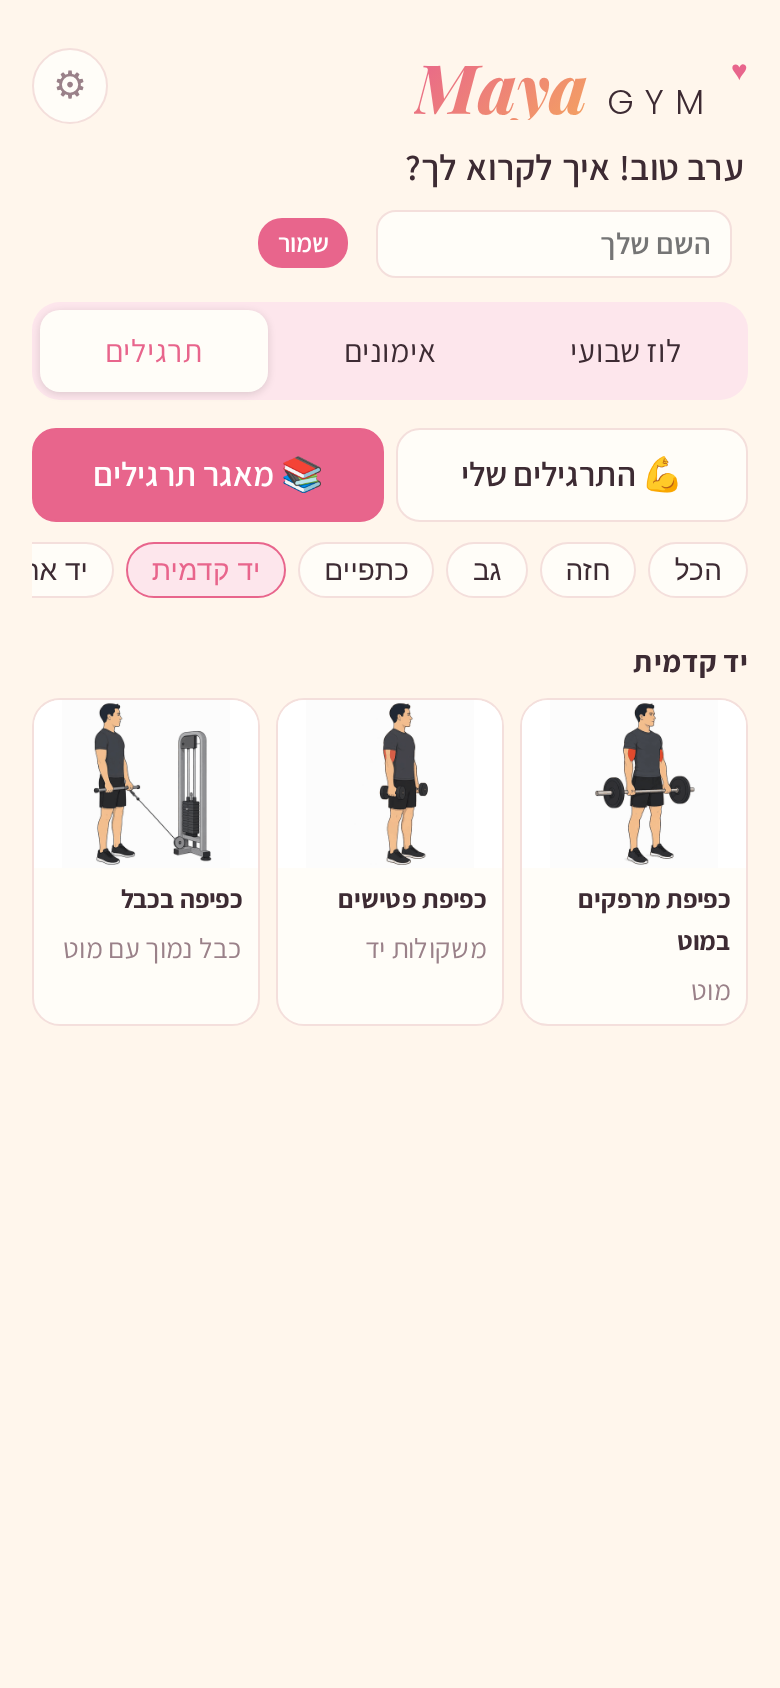
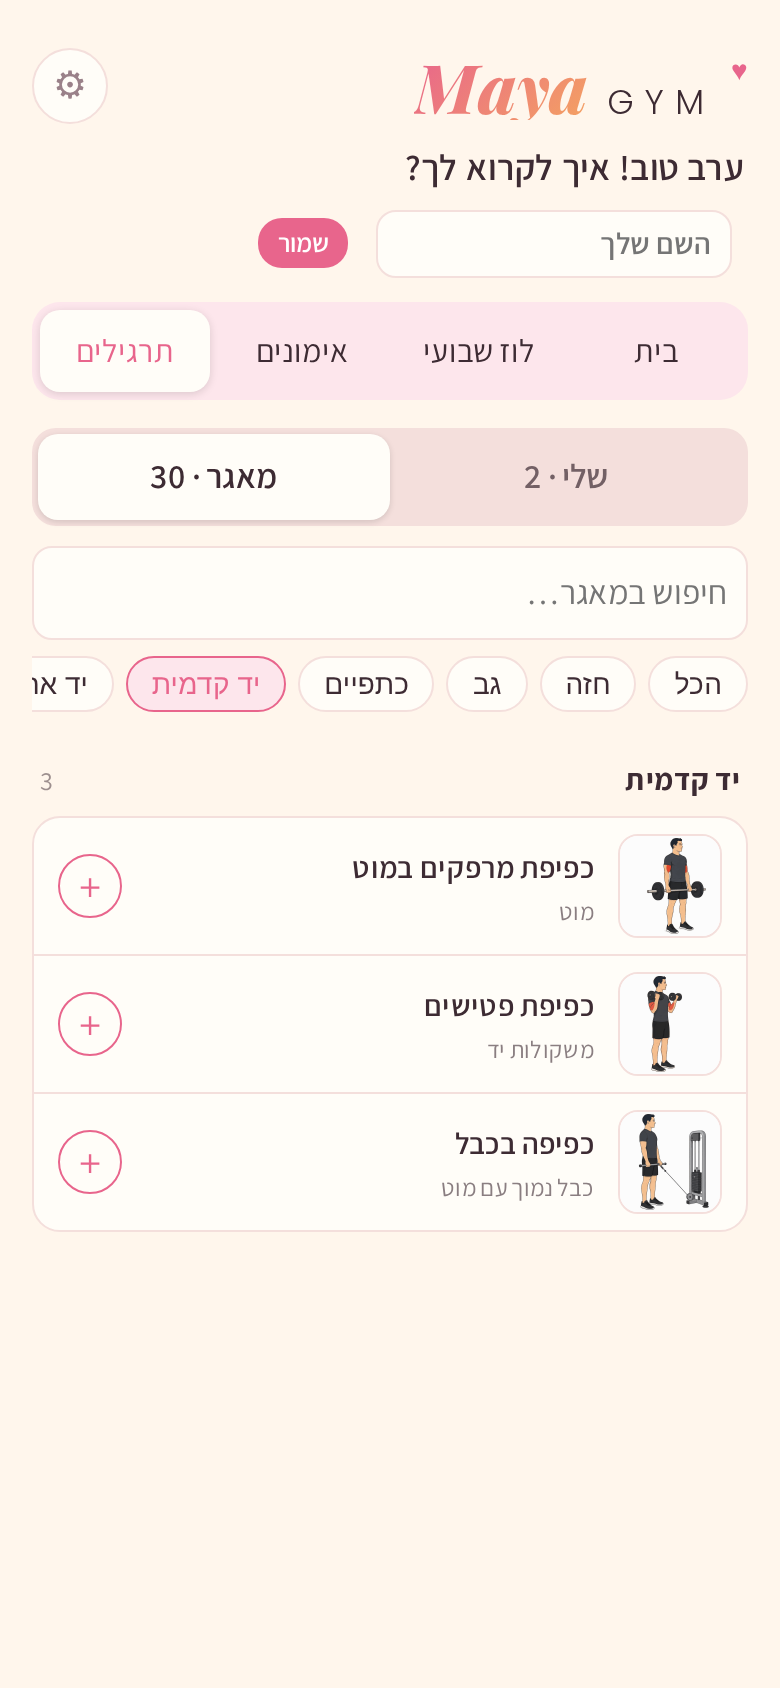
Home tab, goals, after photo, settings & exercises redesign; SW v9

diff --git a/sw.js b/sw.js
@@ -1,4 +1,4 @@
-const V="maya-gym-v8",CORE=["./","index.html","config.js","cloud.js","manifest.webmanifest","icons/favicon.svg","icons/icon-192.png","icons/apple-touch-icon.png"],EX=["ex/ab-crunch.gif","ex/abduction.gif","ex/back-ext.gif","ex/bb-curl.gif","ex/bench-press.gif","ex/cable-curl.gif","ex/cable-pullover.gif","ex/calf-raise.gif","ex/chest-press.gif","ex/dip-machine.gif","ex/front-raise.gif","ex/hammer-curl.gif","ex/hanging-raise.gif","ex/hip-thrust.gif","ex/incline-db.gif","ex/kickback.gif","ex/lat-pulldown.gif","ex/lateral-raise.gif","ex/leg-curl.gif","ex/leg-ext.gif","ex/leg-press.gif","ex/machine-row.gif","ex/overhead-ext.gif","ex/pec-deck.gif","ex/plank.gif","ex/pushdown.gif","ex/rear-delt.gif","ex/seated-row.gif","ex/shoulder-press.gif","ex/smith-squat.gif"];
+const V="maya-gym-v9",CORE=["./","index.html","config.js","cloud.js","manifest.webmanifest","icons/favicon.svg","icons/icon-192.png","icons/apple-touch-icon.png"],EX=["ex/ab-crunch.gif","ex/abduction.gif","ex/back-ext.gif","ex/bb-curl.gif","ex/bench-press.gif","ex/cable-curl.gif","ex/cable-pullover.gif","ex/calf-raise.gif","ex/chest-press.gif","ex/dip-machine.gif","ex/front-raise.gif","ex/hammer-curl.gif","ex/hanging-raise.gif","ex/hip-thrust.gif","ex/incline-db.gif","ex/kickback.gif","ex/lat-pulldown.gif","ex/lateral-raise.gif","ex/leg-curl.gif","ex/leg-ext.gif","ex/leg-press.gif","ex/machine-row.gif","ex/overhead-ext.gif","ex/pec-deck.gif","ex/plank.gif","ex/pushdown.gif","ex/rear-delt.gif","ex/seated-row.gif","ex/shoulder-press.gif","ex/smith-squat.gif"];
 self.addEventListener("install",e=>{e.waitUntil(caches.open(V).then(c=>c.addAll(CORE).then(()=>c.addAll(EX).catch(()=>{}))).then(()=>self.skipWaiting()))});
 self.addEventListener("activate",e=>{e.waitUntil(caches.keys().then(k=>Promise.all(k.filter(x=>x!==V).map(x=>caches.delete(x)))).then(()=>self.clients.claim()))});
 self.addEventListener("fetch",e=>{
